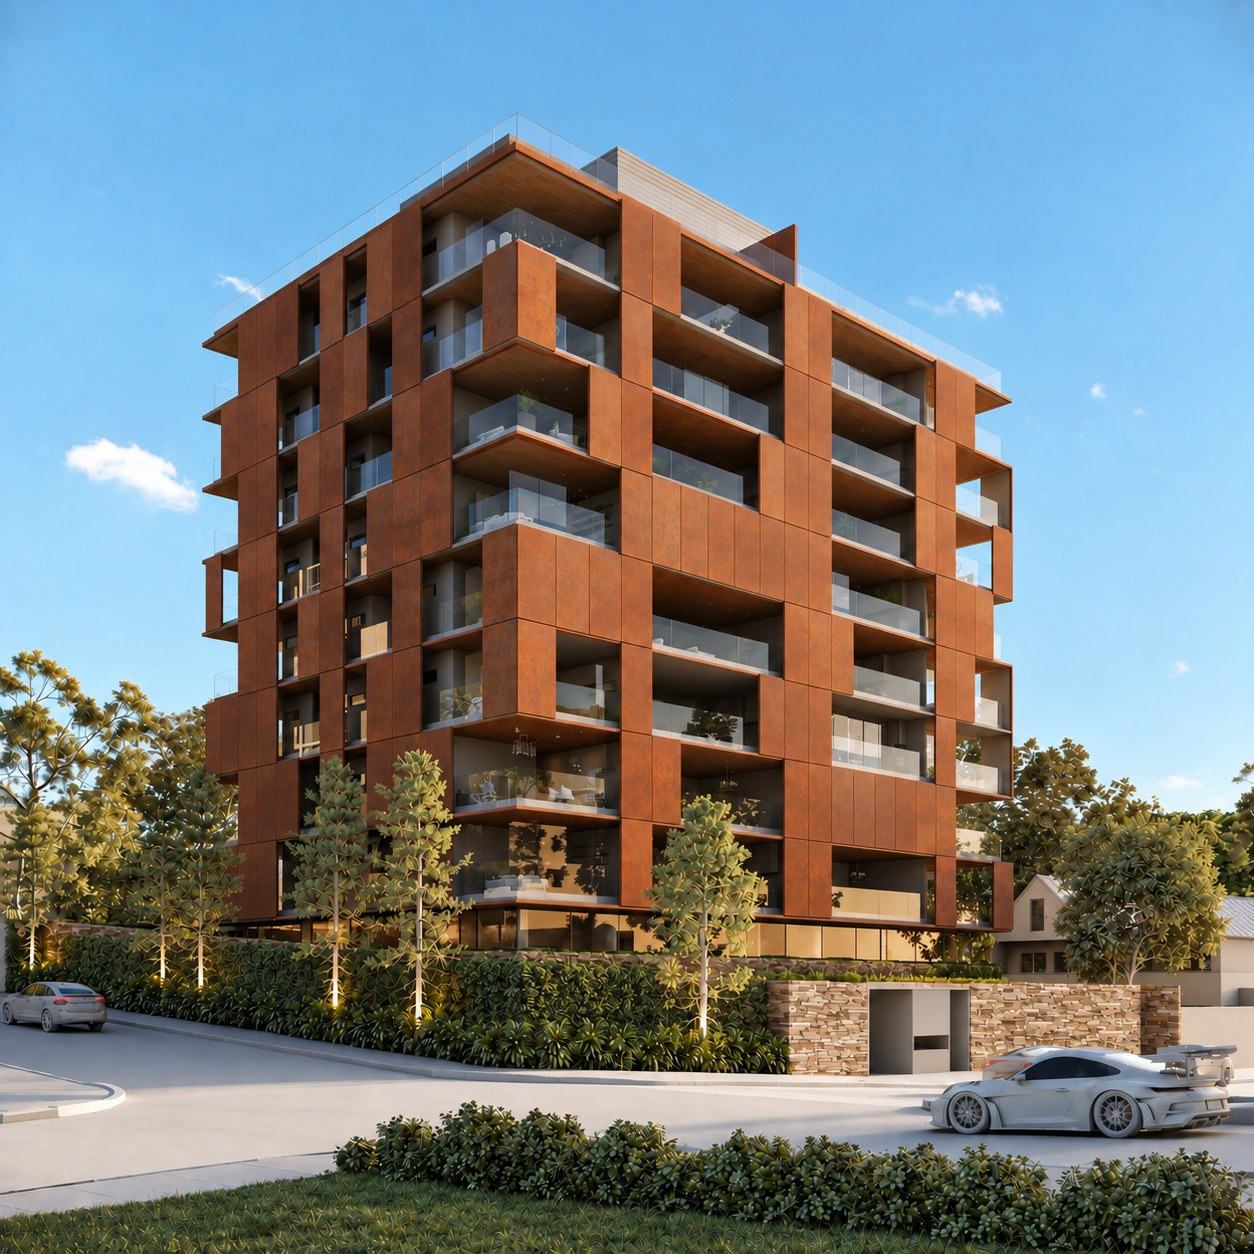
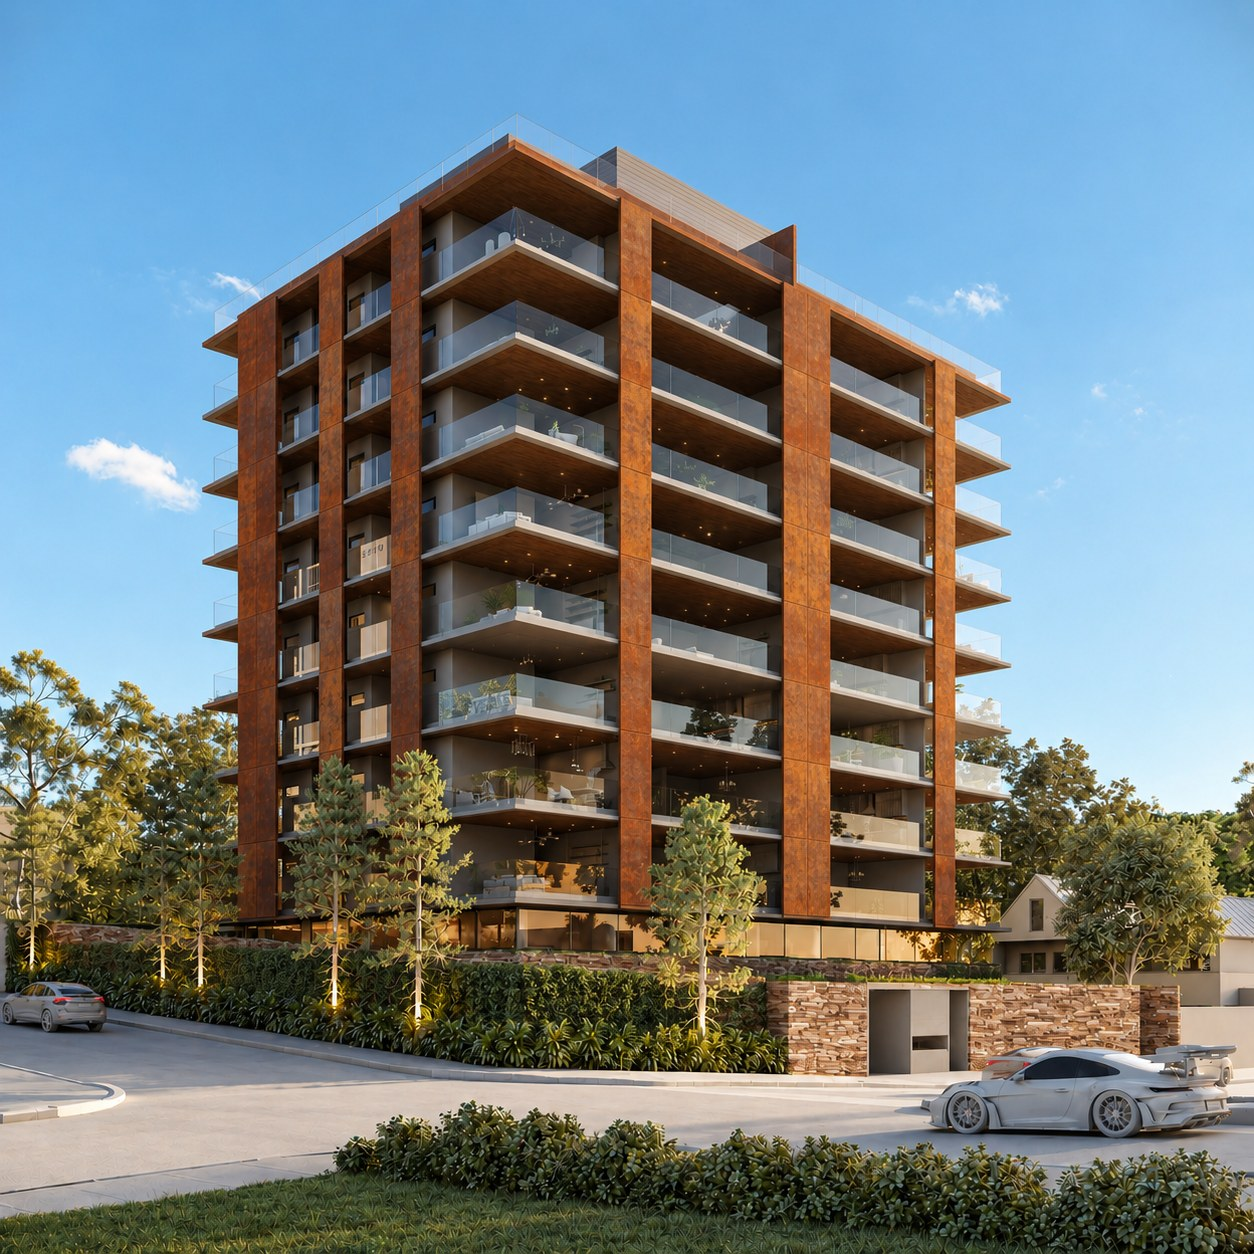
Add files via upload

Changed region(s): [[0.0, 0.0933, 1.0, 1.0], [0.0622, 0.3732, 0.1244, 0.4043], [0.1555, 0.2488, 0.1866, 0.2799]]

diff --git a/style.css b/style.css
@@ -4277,3 +4277,82 @@ section{padding:var(--v-sec) var(--pad)!important}
     rgba(6,5,3,.2) 0%,transparent 16%,
     transparent 52%,rgba(6,5,3,.4) 78%,rgba(6,5,3,.66) 100%)!important}
 }
+
+/* ═══════════════════════════════════════════════════════════════
+   68. A COLUNA DA TIPOLOGIA E O RODAPÉ DA HERO
+   ═══════════════════════════════════════════════════════════════
+
+   ── 68.1 · OS NOMES DAS PLANTAS GANHAM CORPO ───────────────────
+   A coluna da esquerda é um índice CLICÁVEL: cada nome é um alvo
+   de toque e a principal navegação da seção. Em 18px de serifada
+   fina, sobre corten escuro, ela pesava menos que o texto de apoio
+   ao lado — e um índice que pesa menos que o corpo deixa de ser
+   lido como índice.
+
+   Sobe para o degrau de subtítulo, que é o papel real dele, e o
+   numeral de ordem acompanha. Mais corpo também significa alvo de
+   toque maior, que é o que faltava no celular.
+   ──────────────────────────────────────────────────────────── */
+.typo-nav button{padding:clamp(15px,1.7vw,22px) 0!important;gap:clamp(14px,1.5vw,20px)}
+.typo-nav button b{font-size:var(--t-sub)!important;line-height:1.14;
+  font-weight:400;letter-spacing:-.008em}
+.typo-nav button i{font-size:var(--t-ord)!important;min-width:26px;
+  letter-spacing:.18em}
+.typo-nav button[aria-selected="true"]{padding-left:clamp(11px,1.2vw,16px)}
+@media(max-width:640px){
+  .typo-nav button{padding:14px 0!important;gap:12px}
+  .typo-nav button i{min-width:22px}
+}
+
+/* ── 68.2 · AS VAGAS E A METRAGEM, LEGÍVEIS ──────────────────────
+   "04 vagas por unidade" estava em 6,5px — abaixo do piso de
+   legibilidade de qualquer texto, versalete ou não. Era uma linha
+   que existia sem poder ser lida, o que é pior do que não existir.
+
+   Sobe para 8px com mais peso e menos espacejamento (letra
+   espaçada demais em corpo pequeno espalha e some), e o numeral
+   ganha corpo junto. A metragem engrossa de 600 para 700: sobre o
+   chão claro da foto, Bodoni em peso médio some; em 700 ela crava.
+   ──────────────────────────────────────────────────────────── */
+@media(max-width:640px){
+  .hero-metros .hm-n{font-weight:700!important;
+    font-size:clamp(19px,5.1vw,22px)!important;
+    color:#381202!important}
+  .hero-metros .hm-extra{font-size:8px!important;letter-spacing:.15em!important;
+    opacity:.88!important;font-weight:700!important;
+    bottom:-40px!important;gap:8px!important}
+  .hero-metros .hm-extra b{font-size:15px!important;font-weight:600!important;
+    opacity:1!important}
+  #hero .hero-in{bottom:max(62px,9.5vh)!important}
+}
+/* no computador a mesma correção, em escala */
+.hero-metros .hm-n{font-weight:700}
+.hero-metros .hm-extra{font-size:9px;letter-spacing:.17em;
+  opacity:.86;font-weight:700}
+.hero-metros .hm-extra b{font-size:clamp(15px,1.25vw,18px);font-weight:600;opacity:1}
+
+/* ═══════════════════════════════════════════════════════════════
+   69. O PESO DO NÚMERO · 60% DO CAMINHO
+   ═══════════════════════════════════════════════════════════════
+   Escala de referência: 400 era o fino de origem, 700 o cheio da
+   rodada passada. 60% desse intervalo dá 580.
+
+   Por que 580 é o ponto certo e não um meio-termo qualquer: a
+   Bodoni é uma serifada de alto contraste — o que a define é a
+   diferença entre a haste grossa e o filete fino. Quando o peso
+   sobe muito, o filete engorda junto, o contraste achata e a
+   letra perde o que a tornava Bodoni; vira só um número gordo.
+   Em 580 a haste já crava sobre a parede clara da foto, mas o
+   filete continua fino o bastante para a serifa ler como serifa.
+
+   O "04" das vagas desce junto, para 500 — um degrau abaixo. O
+   dado principal fica sempre mais pesado que o secundário; se os
+   dois empatam, a hierarquia se desfaz.
+   ═══════════════════════════════════════════════════════════════ */
+.hero-metros .hm-n{font-weight:580!important}
+.hero-metros .hm-extra b{font-weight:500!important}
+
+@media(max-width:640px){
+  .hero-metros .hm-n{font-weight:580!important}
+  .hero-metros .hm-extra b{font-weight:500!important}
+}

diff --git a/index.html b/index.html
@@ -596,10 +596,13 @@ if(hMin&&hMax){
     hMin.textContent=hMin.dataset.alvo; hMax.textContent=hMax.dataset.alvo;
     if(hMetros)hMetros.classList.add('calibrado');
   }else{
-    setTimeout(()=>corre(hMin,800,()=>{
+    /* mais veloz: a contagem é confirmação de um dado, não espetáculo.
+       Arrancada mais curta (420ms de espera) e cada número em 460ms,
+       então o par inteiro resolve em menos de um segundo. */
+    setTimeout(()=>corre(hMin,460,()=>{
       if(hMetros)hMetros.classList.add('enchendo');
-      corre(hMax,800,()=>{ if(hMetros)hMetros.classList.add('calibrado'); });
-    }),700);
+      corre(hMax,460,()=>{ if(hMetros)hMetros.classList.add('calibrado'); });
+    }),420);
   }
 }
 }catch(e){console.error('[Morás] metragem falhou:',e)}
